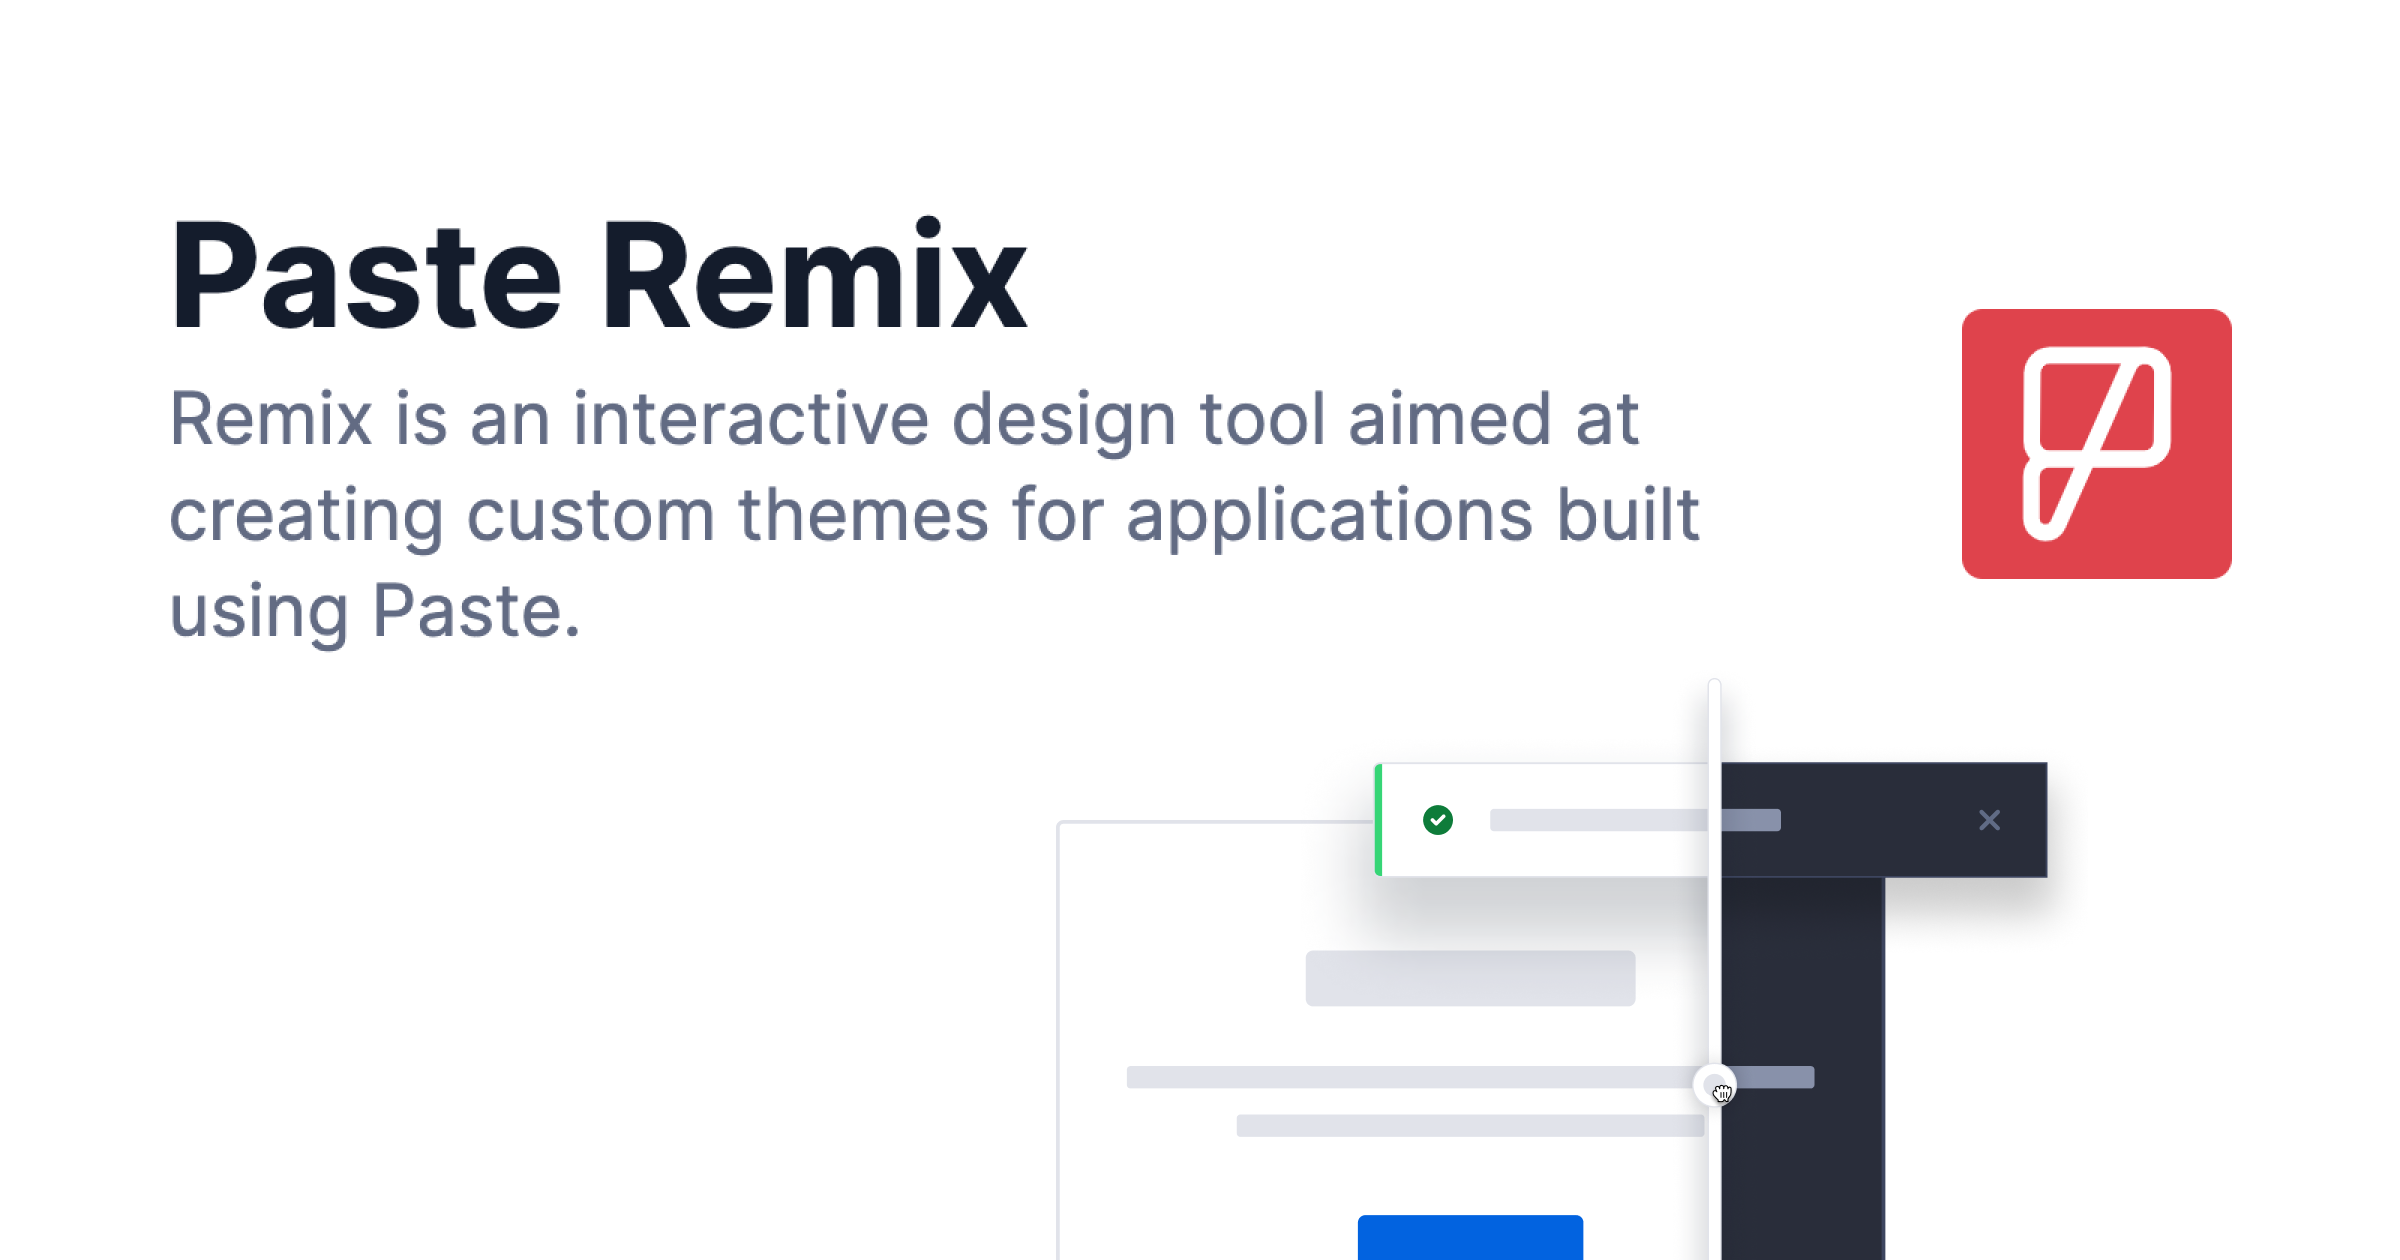
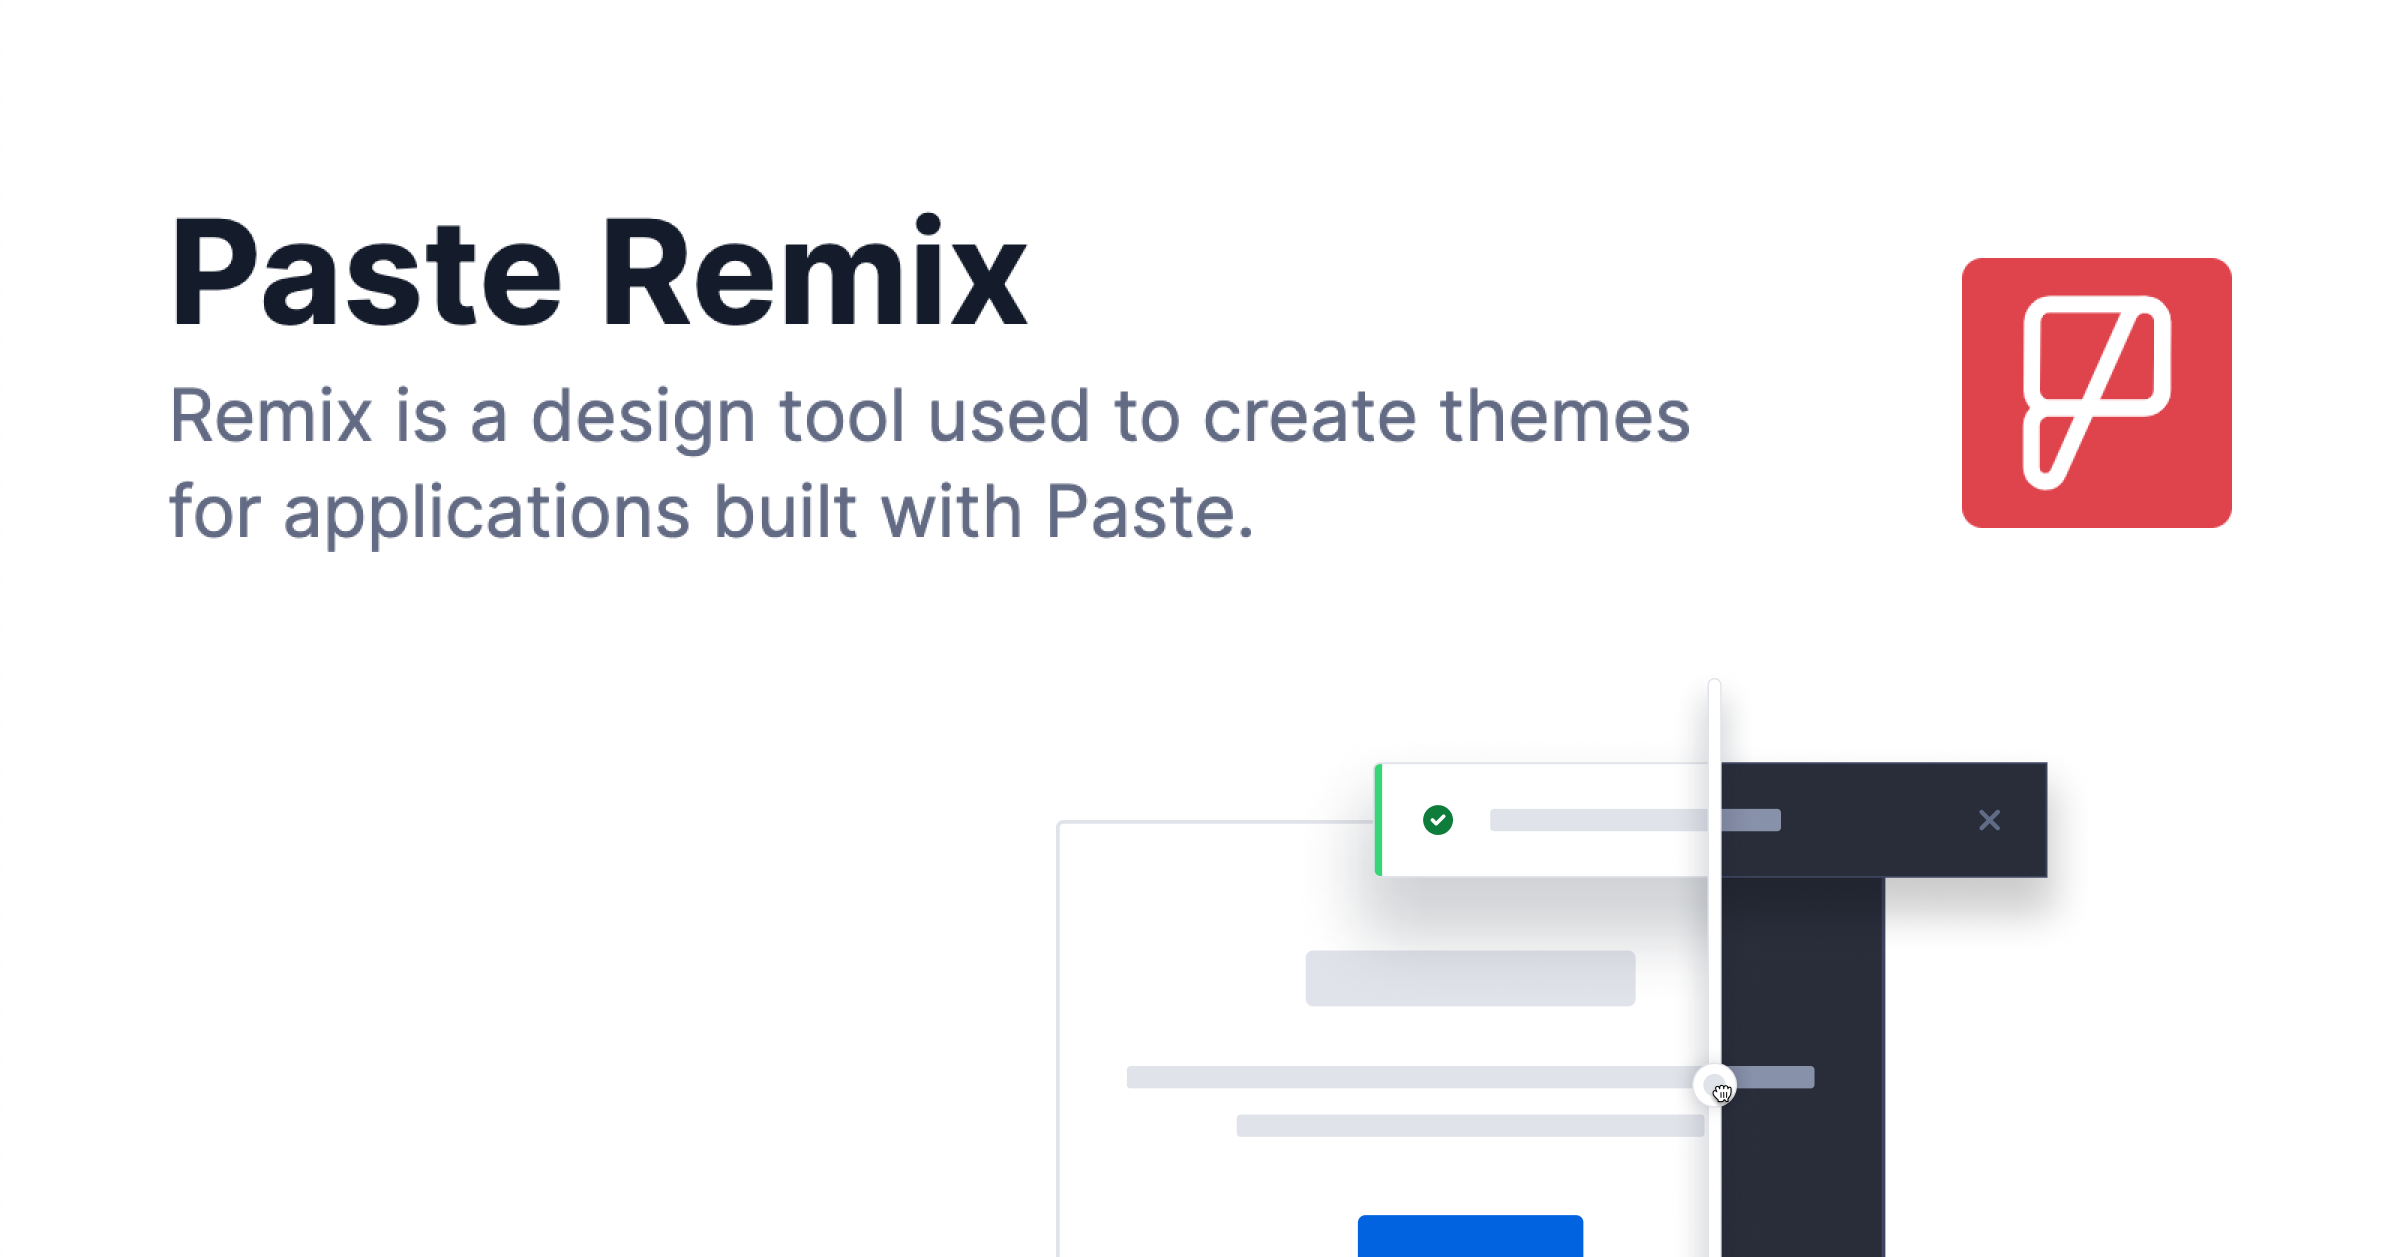
fix: pr feedback

diff --git a/packages/paste-theme-designer/components/topbar/BetaModal.tsx b/packages/paste-theme-designer/components/topbar/BetaModal.tsx
@@ -16,33 +16,33 @@ const BetaModal: React.FC<BetaModalProps> = ({isOpen, onDismiss}) => {
         <ModalHeading id={modalID}>Welcome to Paste Remix</ModalHeading>
       </ModalHeader>
       <ModalBody>
+        <Paragraph>Paste Remix is a design tool used to create themes for applications built with Paste.</Paragraph>
         <Paragraph>
-          Paste Remix is an interactive design tool aimed at creating custom themes for applications built using Paste.
-        </Paragraph>
-        <Paragraph>
-          Remix is currently an experimental release. It aims to help solve an important customer problem, the need to
-          theme and brand applications built on top of the Twilio Platform. Example applications include{' '}
+          You can use Remix to customize and brand your Twilio application. Example applications include{' '}
           <Anchor href="https://www.twilio.com/flex" showExternal>
             Flex
           </Anchor>{' '}
-          plugins which may need to look and feel like your company brand.
+          <Anchor href="https://www.twilio.com/docs/flex/developer/plugins" showExternal>
+            plugins
+          </Anchor>{' '}
+          which may need to look and feel like your company brand.
         </Paragraph>
         <Paragraph>
-          On the left you will see a Token Category selector. Selecting a category displays a list of{' '}
+          On the left you can select a &ldquo;Token category&rdquo;. Selecting a category displays a list of{' '}
           <Anchor href="https://paste.twilio.design/tokens/" showExternal>
             Design Tokens
           </Anchor>{' '}
           that power Paste and its design language. Changing the values of these updates the look and feel of Paste. The
-          result is reflected in the right hand preview panel.
+          result is reflected to the right of the token controls.
         </Paragraph>
         <Paragraph>
           Once you&rsquo;re happy with the design, you can export the theme to use with the Customization Provider, and
           be on your way to creating your custom Paste experience.
         </Paragraph>
         <Paragraph>
-          If you have any feedback on this tool,{' '}
+          Remix is currently an <strong>experimental release</strong>. If you have any feedback on this tool,{' '}
           <Anchor href="https://github.com/twilio-labs/paste/discussions/new" showExternal>
-            start a discussion with us
+            we&rsquo;d love to hear your thoughts
           </Anchor>
           . We can&rsquo;t wait to see what you build!
         </Paragraph>

diff --git a/packages/paste-website/src/components/homepage/HomeHero.tsx b/packages/paste-website/src/components/homepage/HomeHero.tsx
@@ -74,7 +74,7 @@ const HomeHero: React.FC = () => {
                     trackCustomEvent({
                       category: 'Hero',
                       action: 'click-new-component-banner',
-                      label: 'Theme Designer Launch',
+                      label: 'Launch Theme Designer',
                     })
                   }
                 >

diff --git a/packages/paste-theme-designer/pages/index.tsx b/packages/paste-theme-designer/pages/index.tsx
@@ -2,5 +2,5 @@ import * as React from 'react';
 import {EditorWrapper} from '../components/layout/editor-wrapper';
 
 export default function Home(): JSX.Element {
-  return <EditorWrapper>Select an category from the dropdown above to begin editing</EditorWrapper>;
+  return <EditorWrapper>Select a category above to begin editing.</EditorWrapper>;
 }

diff --git a/packages/paste-theme-designer/utils/SimpleStorage.ts b/packages/paste-theme-designer/utils/SimpleStorage.ts
@@ -1,7 +1,7 @@
 /** @module SimpleStorage */
 
 /** The namespace for all storage keys in SimpleStorage. */
-const BASE_KEY = 'paste-website';
+const BASE_KEY = 'paste-remix';
 
 /** Helper function to namespace a provided key. */
 const namespaceKey = (key: string): string => `${BASE_KEY}/${key}`;
